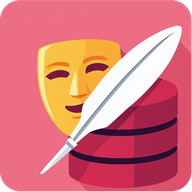
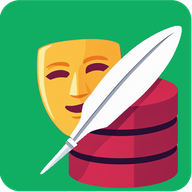
feat(pwa): icônes vertes maskable avec masque, plume et base de données (Issue #315)
- scripts/generate_favicons.py (sorti de frontend/public/, copié dans le build) :
  masque + plume de l'icône verte historique, base de données de l'icône rose,
  sur fond vert #0FAE63 ; icônes any + maskable 192/512 (motif dans la safe zone)
- site.webmanifest : icônes any + maskable, background_color vert
- tests/test_generate_favicons.py : opacité, safe zone et base de données,
  sur le script et sur les PNG commités

diff --git a/scripts/generate_favicons.py b/scripts/generate_favicons.py
@@ -1,0 +1,212 @@
+#!/usr/bin/env python3
+"""Génère les icônes de la PWA lmelp : masque, plume et base de données sur fond vert.
+
+Sources (``frontend/public/gimp_favicon/``, même composition, 1327×1328) :
+
+- ``favicon.png`` : icône verte historique de lmelp (masque + plume, ombre
+  portée vert foncé) ;
+- ``favicon_back-office-lmelp.png`` : même icône sur fond rose, avec une base
+  de données carmin derrière la plume. Seule la base de données en est
+  reprise : elle marque le rôle de back-office de l'application.
+
+Fichiers produits dans ``frontend/public/`` :
+
+- icônes « any » (carré vert arrondi avec ombre portée) :
+  favicon-16x16/32x32/48x48, favicon.ico, apple-touch-icon (180),
+  android-chrome-192x192/512x512 ;
+- icônes « maskable » (192 et 512) : fond vert plein bord à bord, motif
+  détouré et recentré dans la safe zone (disque central de 80 % du côté),
+  pour que l'icône remplisse tout le cercle du launcher Android.
+
+Le détourage reprend celui de ``scripts/generate_launcher_icon.py`` du repo
+castorfou/lmelp-mobile, qui part de la même source.
+
+Usage :
+    python scripts/generate_favicons.py
+"""
+
+from pathlib import Path
+
+import numpy as np
+from PIL import Image, ImageDraw
+from scipy import ndimage
+from scipy.spatial import ConvexHull
+
+
+PUBLIC_DIR = Path(__file__).resolve().parent.parent / "frontend" / "public"
+SOURCE_IMAGE = PUBLIC_DIR / "gimp_favicon" / "favicon.png"
+DATABASE_SOURCE_IMAGE = PUBLIC_DIR / "gimp_favicon" / "favicon_back-office-lmelp.png"
+
+# Vert uni du fond de l'icône historique lmelp
+BACKGROUND_COLOR = (0x0F, 0xAE, 0x63)
+
+# Rayon du disque contenant le motif, en fraction du côté : la safe zone
+# maskable est un disque de rayon 0,4 ; on garde une petite marge.
+_MOTIF_RADIUS = 0.38
+_WORK_SIZE = 1024
+
+# Pixels « verts » (fond + ombre) : G dépasse max(R, B)
+_GREEN_OPAQUE_BELOW = 5
+_GREEN_TRANSPARENT_ABOVE = 35
+_PEEL_ITERATIONS = 25
+# Base de données de l'icône rose : carmin et bandes violet foncé ont un vert
+# très faible, contrairement au fond rose et à son ombre (G > 75)
+_DATABASE_GREEN_MAX = 60
+# Liseré rose/magenta (R et B nettement au-dessus de G), pelé depuis les bords
+_MAGENTA_MARGIN = 10
+
+ANY_SIZES = {
+    "favicon-16x16.png": 16,
+    "favicon-32x32.png": 32,
+    "favicon-48x48.png": 48,
+    "apple-touch-icon.png": 180,
+    "android-chrome-192x192.png": 192,
+    "android-chrome-512x512.png": 512,
+}
+MASKABLE_SIZES = (192, 512)
+ICO_SIZES = [(16, 16), (32, 32), (48, 48)]
+
+
+def extract_foreground(img: Image.Image) -> Image.Image:
+    """Détoure le masque et la plume : les pixels verts deviennent transparents.
+
+    L'alpha décroît progressivement avec la « verdeur » (G - max(R, B)) pour
+    garder des bords anti-aliasés. Seul le plus grand ensemble connexe
+    (masque + plume) est conservé, ce qui élimine l'ombre vert foncé.
+    """
+    rgba = np.asarray(img.convert("RGBA")).astype(np.int32)
+    r, g, b, a = rgba[..., 0], rgba[..., 1], rgba[..., 2], rgba[..., 3]
+    greenness = g - np.maximum(r, b)
+
+    span = _GREEN_TRANSPARENT_ABOVE - _GREEN_OPAQUE_BELOW
+    keep = np.clip((_GREEN_TRANSPARENT_ABOVE - greenness) / span, 0.0, 1.0)
+    alpha = (a * keep).round().astype(np.int32)
+
+    # Pelage : les pixels teintés (vert résiduel d'un flou, liseré rose) qui
+    # touchent la transparence sont retirés de proche en proche. Les yeux et
+    # la bouche, enclos dans le masque jaune, sont épargnés.
+    magenta = np.minimum(r, b) - g > _MAGENTA_MARGIN
+    tinted = (greenness > 0) | magenta
+    for _ in range(_PEEL_ITERATIONS):
+        touching = ndimage.binary_dilation(alpha == 0) & (alpha > 0) & tinted
+        if not touching.any():
+            break
+        alpha[touching] = 0
+
+    labels, count = ndimage.label(alpha > 0)
+    if count > 1:
+        sizes = ndimage.sum_labels(
+            np.ones_like(labels), labels, index=range(1, count + 1)
+        )
+        alpha[labels != int(np.argmax(sizes)) + 1] = 0
+
+    out = rgba.copy()
+    out[..., 1] = np.where(greenness > 0, np.maximum(r, b), g)
+    out[..., 3] = alpha
+    return Image.fromarray(out.astype(np.uint8), "RGBA")
+
+
+def extract_database(img: Image.Image) -> Image.Image:
+    """Détoure la base de données de l'icône rose (reste transparent).
+
+    Elle est le plus grand ensemble connexe de pixels à vert faible, élargi à
+    son enveloppe convexe pour boucher les encoches laissées par l'ombre de
+    la plume. Sa partie cachée par la plume reste absente, la plume étant
+    recollée par-dessus.
+    """
+    rgba = np.asarray(img.convert("RGBA")).astype(np.int32)
+    candidates = (rgba[..., 3] > 0) & (rgba[..., 1] < _DATABASE_GREEN_MAX)
+    labels, count = ndimage.label(candidates)
+    sizes = ndimage.sum_labels(np.ones_like(labels), labels, index=range(1, count + 1))
+    ys, xs = np.nonzero(labels == int(np.argmax(sizes)) + 1)
+    points = np.column_stack([xs, ys])
+    hull = points[ConvexHull(points).vertices]
+    shape = Image.new("L", img.size, 0)
+    ImageDraw.Draw(shape).polygon([tuple(p) for p in hull.tolist()], fill=255)
+    database = np.asarray(shape) > 0
+
+    out = rgba.copy()
+    out[..., 3] = np.where(database, 255, 0)
+    return Image.fromarray(out.astype(np.uint8), "RGBA")
+
+
+def build_motif() -> Image.Image:
+    """Base de données, puis masque et plume par-dessus (repère des sources)."""
+    database = extract_database(Image.open(DATABASE_SOURCE_IMAGE))
+    mask_and_feather = extract_foreground(Image.open(SOURCE_IMAGE))
+    motif = np.asarray(Image.alpha_composite(database, mask_and_feather)).copy()
+
+    # L'encoche de la plume forme une poche transparente entre la plume et la
+    # base de données : on la comble avec la couleur de la base la plus proche.
+    opaque = motif[..., 3] > 127
+    holes = ndimage.binary_fill_holes(opaque) & ~opaque
+    if holes.any():
+        db_alpha = np.asarray(database)[..., 3] > 0
+        _, (iy, ix) = ndimage.distance_transform_edt(~db_alpha, return_indices=True)
+        motif[holes, :3] = np.asarray(database)[iy[holes], ix[holes], :3]
+        motif[holes, 3] = 255
+    return Image.fromarray(motif, "RGBA")
+
+
+def build_any_icon() -> Image.Image:
+    """Icône « any » : carré arrondi vert uni de la source, motif par-dessus.
+
+    L'ombre portée d'origine n'est pas reprise : sa silhouette ne correspond
+    pas à celle de la base de données.
+    """
+    source = np.asarray(Image.open(SOURCE_IMAGE).convert("RGBA"))
+    flat = np.zeros_like(source)
+    flat[..., :3] = BACKGROUND_COLOR
+    flat[..., 3] = source[..., 3]
+    return Image.alpha_composite(Image.fromarray(flat, "RGBA"), build_motif())
+
+
+def build_maskable_icon(size: int) -> Image.Image:
+    """Icône maskable : fond vert plein, motif centré dans la safe zone."""
+    motif = build_motif()
+    alpha = np.asarray(motif)[..., 3]
+    ys, xs = np.nonzero(alpha)
+    cx, cy = (xs.min() + xs.max()) / 2, (ys.min() + ys.max()) / 2
+    radius = float(np.sqrt((xs - cx) ** 2 + (ys - cy) ** 2).max())
+
+    work = _WORK_SIZE
+    scale = work * _MOTIF_RADIUS / radius
+    scaled = motif.resize(
+        (round(motif.width * scale), round(motif.height * scale)),
+        Image.Resampling.LANCZOS,
+    )
+    canvas = Image.new("RGBA", (work, work), BACKGROUND_COLOR + (255,))
+    canvas.alpha_composite(
+        scaled, (round(work / 2 - cx * scale), round(work / 2 - cy * scale))
+    )
+    return canvas.resize((size, size), Image.Resampling.LANCZOS)
+
+
+def generate_favicons(output_dir: Path = PUBLIC_DIR) -> None:
+    """Génère toutes les icônes de la PWA dans ``output_dir``."""
+    output_dir.mkdir(parents=True, exist_ok=True)
+    img = build_any_icon()
+
+    for filename, size in ANY_SIZES.items():
+        img.resize((size, size), Image.Resampling.LANCZOS).save(
+            output_dir / filename, "PNG", optimize=True
+        )
+        print(f"Créé : {filename} ({size}x{size})")
+
+    ico_images = [img.resize(s, Image.Resampling.LANCZOS) for s in ICO_SIZES]
+    ico_images[0].save(
+        output_dir / "favicon.ico",
+        format="ICO",
+        sizes=ICO_SIZES,
+        append_images=ico_images[1:],
+    )
+    print("Créé : favicon.ico (multi-tailles)")
+
+    for size in MASKABLE_SIZES:
+        filename = f"maskable-icon-{size}x{size}.png"
+        build_maskable_icon(size).save(output_dir / filename, "PNG", optimize=True)
+        print(f"Créé : {filename} (maskable)")
+
+
+if __name__ == "__main__":
+    generate_favicons()

diff --git a/tests/test_generate_favicons.py b/tests/test_generate_favicons.py
@@ -1,0 +1,82 @@
+"""Tests du générateur d'icônes de la PWA lmelp (Issue #315).
+
+Une icône « maskable » doit remplir tout le cercle du launcher Android :
+fond plein bord à bord (aucun pixel transparent) et motif contenu dans la
+safe zone, le disque central de 80 % du côté.
+"""
+
+import importlib.util
+from pathlib import Path
+
+import numpy as np
+import pytest
+from PIL import Image
+
+
+ROOT = Path(__file__).resolve().parent.parent
+SCRIPT = ROOT / "scripts" / "generate_favicons.py"
+PUBLIC_DIR = ROOT / "frontend" / "public"
+
+_spec = importlib.util.spec_from_file_location("generate_favicons", SCRIPT)
+assert _spec is not None and _spec.loader is not None
+generate_favicons = importlib.util.module_from_spec(_spec)
+_spec.loader.exec_module(generate_favicons)
+
+# Écart maximal toléré (par canal) avec la couleur de fond hors safe zone
+_BACKGROUND_TOLERANCE = 8
+
+
+def _assert_is_maskable(icon: Image.Image, size: int) -> None:
+    rgba = np.asarray(icon.convert("RGBA")).astype(np.int32)
+    assert icon.size == (size, size)
+
+    # Fond plein bord à bord : aucun coin transparent ni arrondi
+    assert rgba[..., 3].min() == 255, "l'icône maskable contient de la transparence"
+
+    # Hors du disque de 80 % : uniquement la couleur de fond
+    ys, xs = np.mgrid[0:size, 0:size]
+    center = (size - 1) / 2
+    outside = np.hypot(xs - center, ys - center) > 0.4 * size
+    background = np.array(generate_favicons.BACKGROUND_COLOR)
+    deviation = np.abs(rgba[..., :3] - background).max(axis=2)
+    assert deviation[outside].max() <= _BACKGROUND_TOLERANCE, (
+        "le motif déborde de la safe zone (disque central de 80 %)"
+    )
+
+    # Le motif (masque + plume) est bien présent au centre
+    inside = np.hypot(xs - center, ys - center) <= 0.4 * size
+    assert (deviation[inside] > 60).mean() > 0.15, "motif absent de l'icône"
+
+
+def _database_ratio(icon: Image.Image) -> float:
+    """Part des pixels carmin de la base de données (marque du back-office)."""
+    rgba = np.asarray(icon.convert("RGBA")).astype(np.int32)
+    r, g, b = rgba[..., 0], rgba[..., 1], rgba[..., 2]
+    crimson = (r > 130) & (g < 70) & (b > 40) & (b < 120) & (rgba[..., 3] > 0)
+    return float(crimson.mean())
+
+
+@pytest.mark.parametrize(
+    "filename", ["maskable-icon-512x512.png", "android-chrome-512x512.png"]
+)
+def test_icons_keep_back_office_database(filename):
+    """La base de données de l'ancienne icône rose reste dans le motif."""
+    assert _database_ratio(Image.open(PUBLIC_DIR / filename)) > 0.03
+
+
+def test_build_maskable_icon_keeps_back_office_database():
+    assert _database_ratio(generate_favicons.build_maskable_icon(512)) > 0.03
+
+
+@pytest.mark.parametrize("size", [192, 512])
+def test_build_maskable_icon_fills_launcher_circle(size):
+    """L'icône générée est pleine et son motif tient dans la safe zone."""
+    _assert_is_maskable(generate_favicons.build_maskable_icon(size), size)
+
+
+@pytest.mark.parametrize("size", [192, 512])
+def test_committed_maskable_icons_are_maskable(size):
+    """Les PNG maskable servis par la PWA respectent les mêmes contraintes."""
+    path = PUBLIC_DIR / f"maskable-icon-{size}x{size}.png"
+    assert path.exists(), f"{path.name} absent de frontend/public"
+    _assert_is_maskable(Image.open(path), size)
